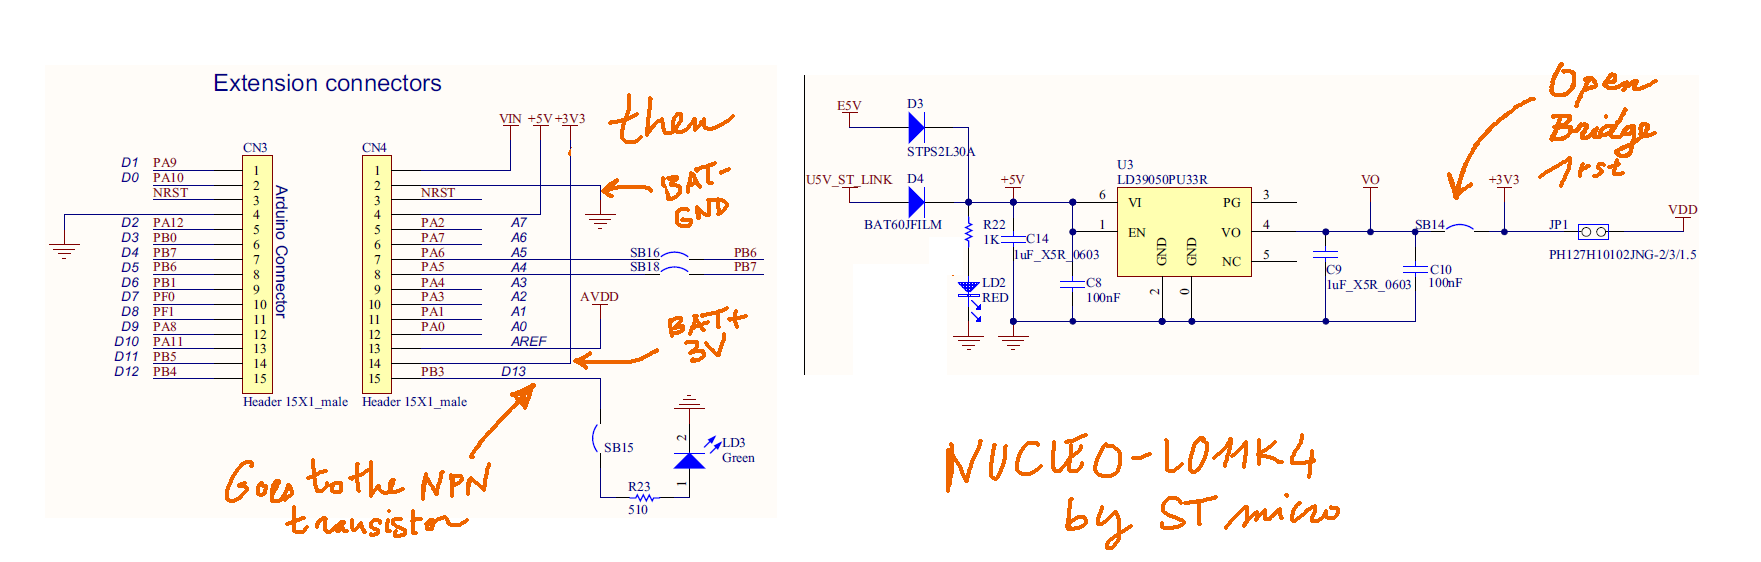
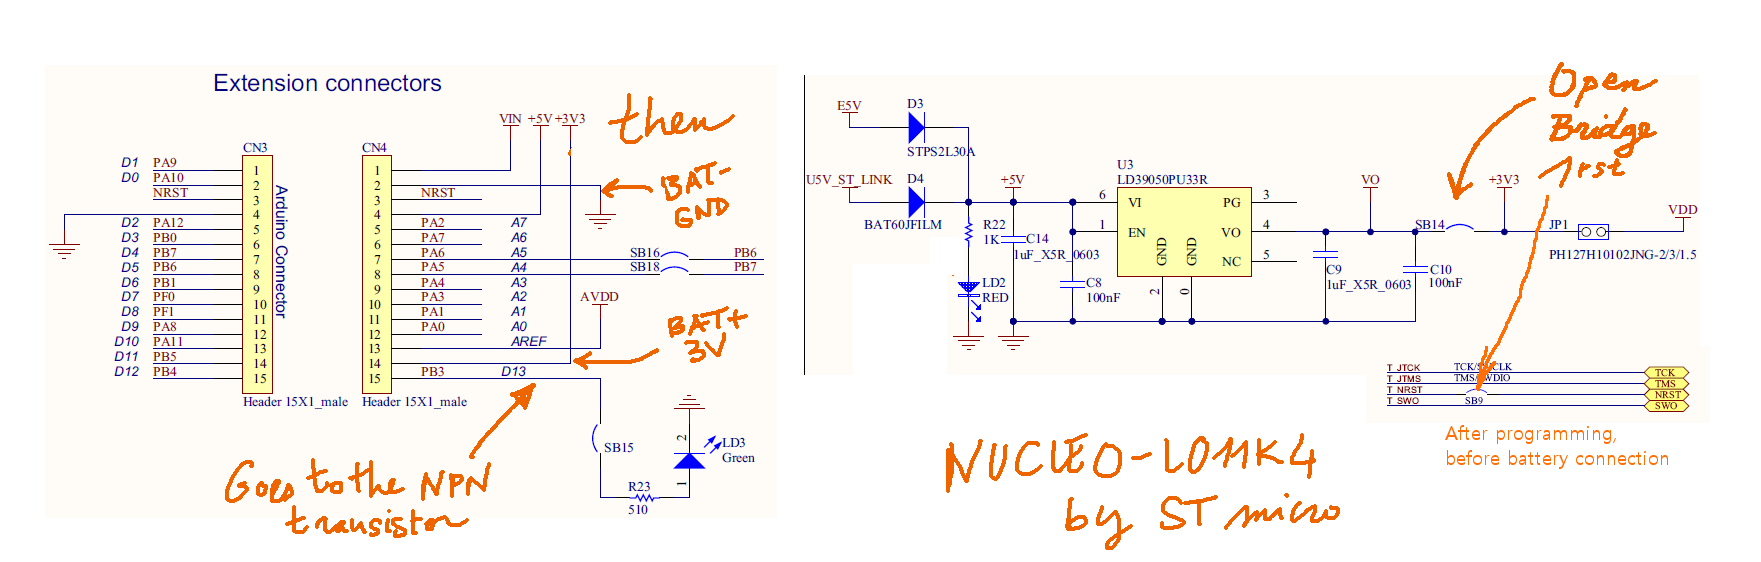
You actually really need to open SB9 when running on battery.

Changed region(s): [[0.7808, 0.605, 0.9682, 0.7562], [0.812, 0.7562, 0.937, 0.847]]

diff --git a/README.md b/README.md
@@ -21,26 +21,30 @@ Used this configuration:
 $17h14m00s06w12m31d22y03600wkup
 
 
-## USING THE DESIGN WITH JUST THE NUCLEO BOARD : just to take a look and make some tests
+## USING THE DESIGN WITH JUST THE NUCLEO BOARD : just to take a look, flash the board (program it) and make some tests
 
 You can check the firmware and functionality before making the cicuit : 
 
 Because it happens that PB3/D13 (GPIO of the nucleo board) also drives the green led of the nucleo board, you can test the functionality with the nucleo board as it is out of the factory. 
-(no resistor, no transistor, no battery, with SB14 still closed, no big red led, no breadboard).
+(no resistor, no transistor, no battery, with solder bridges SB14 and SB9 still closed, no big red led, no breadboard).
 
 
-### Flashing
+### Flashing (programming)
++ ensure no battery is connected
++ ensure SB14 and SB9 are closed
 + connect usb to a pc
 + flash using STM32CubeProg available from www.st.com 
 (don't need the trusted package thing). 
-+ You flash program the file heart.hex
++ You flash program the file MDK-ARM/heart/heart.hex
 + stop STM32CubeProg
 ### Settings and run
++ ensure no battery is connected
++ ensure SB14 is closed
 + start a terminal ('tera term' for instance) at 4800 bauds 
 + configure the terminal at 4800 bauds 
 + connect usb to a pc 
-+ open connection to new serial port in tera term
-+ follow instructions (displayed every 10 sec, with a led pulse)
++ open connection to the new serial port in tera term
++ follow the instructions (displayed every 10 sec, with a led pulse)
 Then it runs
 
 
@@ -50,11 +54,15 @@ Then it runs
 That's the only way to have it running for years.
 
 ### Prepare the NUCLEO board : REQUIRED ! 
-See open_sb14.png : open SB14 solder bridge on the bottom on the nucleo board (v conflict).
-From that moment, never connect anymore usb without the 3V battery holders connected to 3.3V
+See doc/open_sb14_sb9.png : open SB14 and SB9 solder bridges on the bottom on the nucleo board (voltage conflict, and reset).
 
-### Flashing. RESPECT THAT SEQUENCE
-+ connect battery to +3V pin and GND pin
+From that moment, never connect anymore usb without the 3V battery holders connected to 3.3V first
+
+Once SB9 is open, programming of the nucleo _may_ be a little more difficult (might fail more often), but i am not sure of that.  
+
+### Flashing (programming) if not already done. RESPECT THAT SEQUENCE
++ ensure SB14 is open
++ connect battery to +3V3 pin and GND pin
 + connect usb to a pc
 + flash using STM32CubeProg available from www.st.com 
 (don't need the trusted package thing).
@@ -63,17 +71,18 @@ From that moment, never connect anymore usb without the 3V battery holders conne
 + disconnect usb (clean fast disconnection)
 
 ### Settings and run. RESPECT THAT SEQUENCE
++ ensure SB14 and SB9 are open
 + start a terminal ('tera term' for instance) at 4800 bauds 
 + configure the terminal at 4800 bauds 
-+ connect battery to +3V pin and GND pin
++ connect battery to +3V3 pin and GND pin
 + connect usb to a pc 
 + open connection to new serial port in tera term
 + follow instructions (displayed every 10 sec, with a led pulse)
 + disconnect usb (clean fast disconnection), voilà !
 
-Never connect usb without battery connected
-To restart the setting phase, you need to disconnect 
-the battery then reconnect it.
+Once SB14 is open, Never connect usb without battery connected.
+
+To restart the setting phase, you need to disconnect the battery then reconnect it (if a reset with the little push button on the side of the pcb is not enough).
 
 
 ## TRYING some tests
@@ -84,7 +93,9 @@ Examples (not in TESTING mode, nominal, heart.hex as on github)
 
 $13h20m00s04w03m15d18y00000wkup
 
-+ will pulse on next saint valentin in 11 months... and short pulse every midnight
++ will pulse on next saint valentin in 11 months, for 18 hours, then next year... 
++ one heart beat pulse every midnight
++ no wake up pulses
 
 nota : monday is 01w
 
@@ -93,7 +104,7 @@ nota : monday is 01w
 $17h59m00s04w02m14d19y00000wkup
 
 + will pulse on next saint valentin in one minute, for 18 hours, then next year.
-+ short pulse every midnight
++ one heart beat pulse every midnight
 + no wake up pulses
 
 ### it is 5:50pm on thursday 14 feb 2019
@@ -101,24 +112,39 @@ $17h59m00s04w02m14d19y00000wkup
 $17h50m00s04w02m14d19y03600wkup
 
 + will pulse on next saint valentin in ten minutes, for 18 hours, then next year.
-+ short pulse every midnight
-+ wake up pulse every 3600 seconds  (just ok for the battery, help ensure it works)
++ one heart beat pulse every midnight
++ one wake up short pulse (150ms) every 3600 seconds  (just ok for the battery, help ensure it works)
 
 
 ## Touble shooting
 
-if the red led flashes every 10 sec, that means that it is still in configuration mode
+if the red led flashes every 10 sec, that means that it is still waiting for a configuration to be given to it
 
-using '03600wkup' help check after one hour that it is really working 
+using '03600wkup' in the config, helps check after one hour that it is really working 
 
-### normal behaviour of the board
+## normal behaviour of the board
 
 after a power on start up, 
 
 + the board does a 3 seconds fast pulse train
 + then it waits for the configuration information
+
+Example of the text displayed:
+```
+You are in final target mode
+
+Please write (or paste) the time and wake up delay. Don't use del,backspace because it is ignored
+Example :
+$21h24m00s05w03m09d18y00060wkup
+Format : hour, minute, second, weekday, month, day of the month, year, wakeupEvery in seconds from 1 to 65535 (0 for no wake up). 01w == monday
+$19h36m00s06w12m31d22y0360wkup
+Setting time to $19h36m00s06w12m31d22y03600wkup
+You can now disconnect usb.
+```
+
 + just after configuration, it produces again a 3 seconds fast pulse train
 + there is then a 3 seconds delay, 
 + then, it produces again a 3 seconds fast pulse train
++ then it goes into deep sleep (standby) until the next wake up, midnight or saint valentin.
 
 I would recommend that you disconnect USB during these 9 seconds of post configuration 
